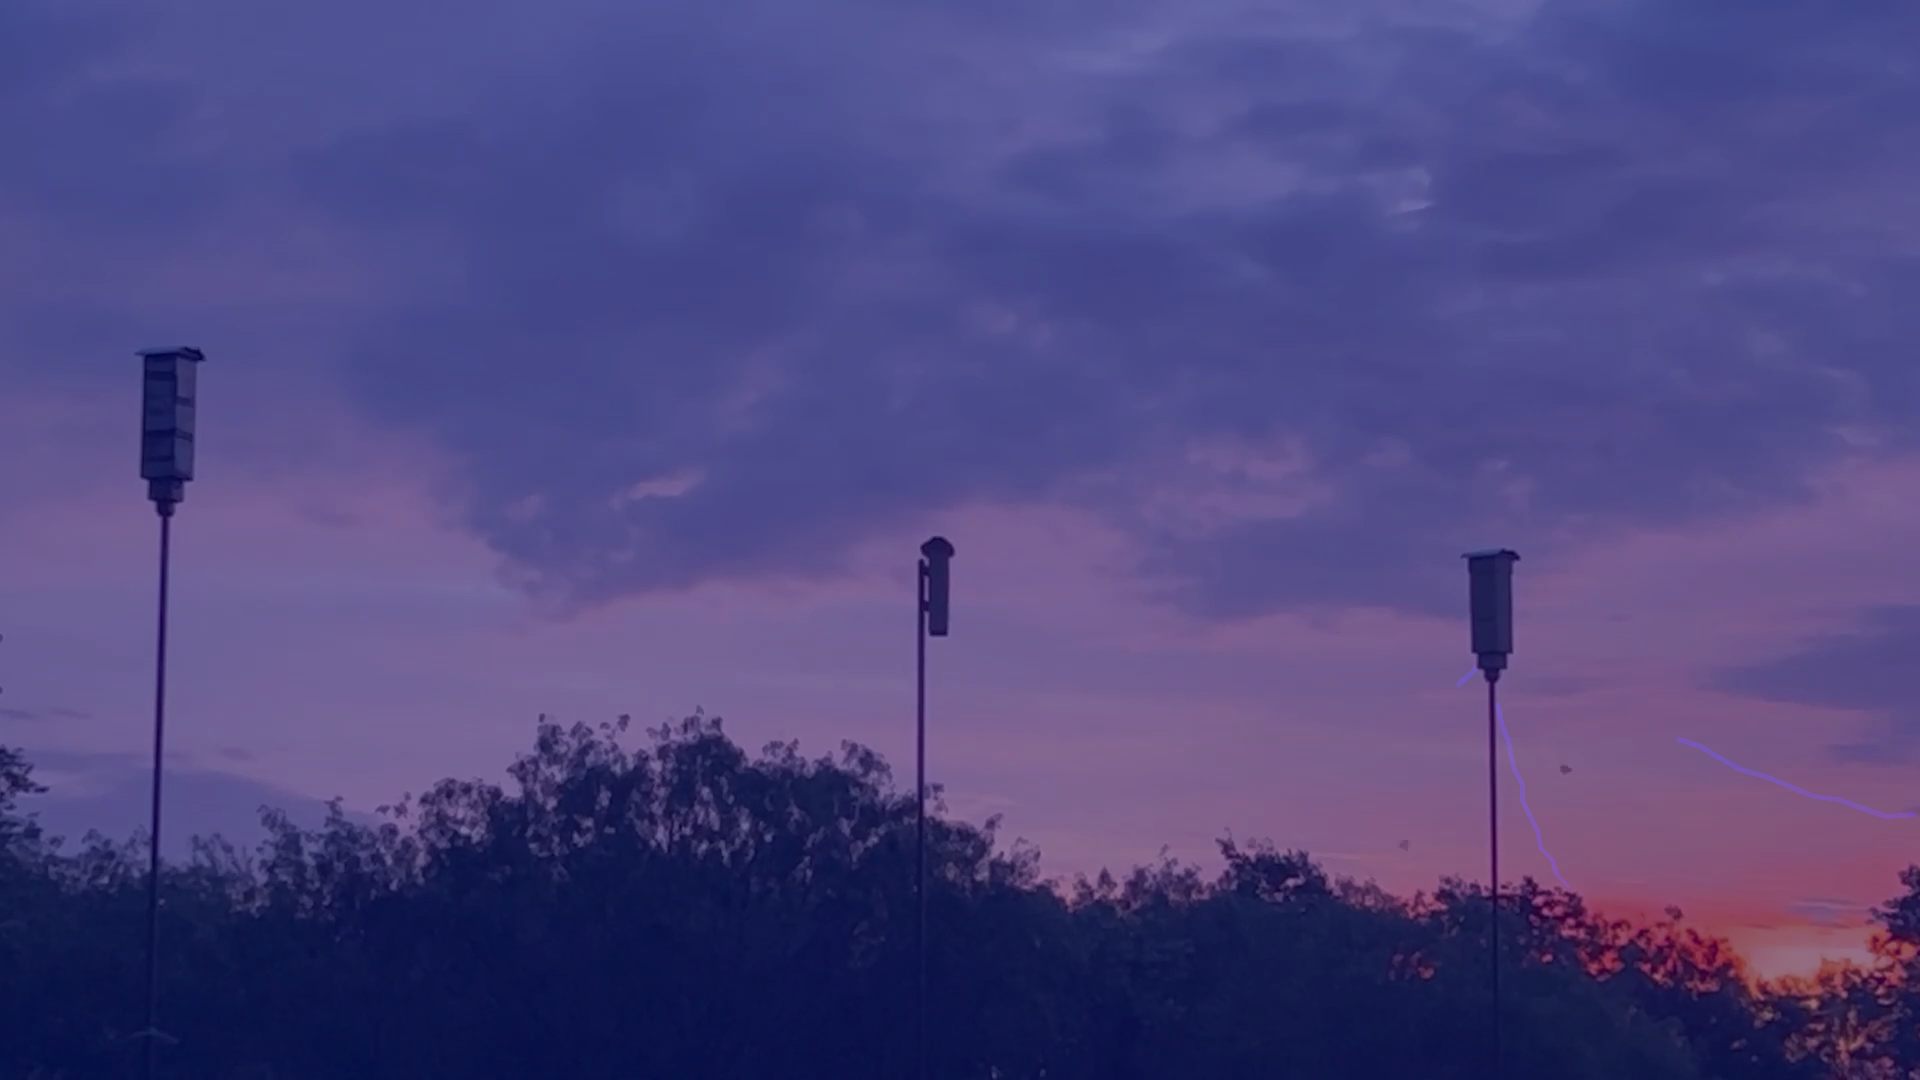
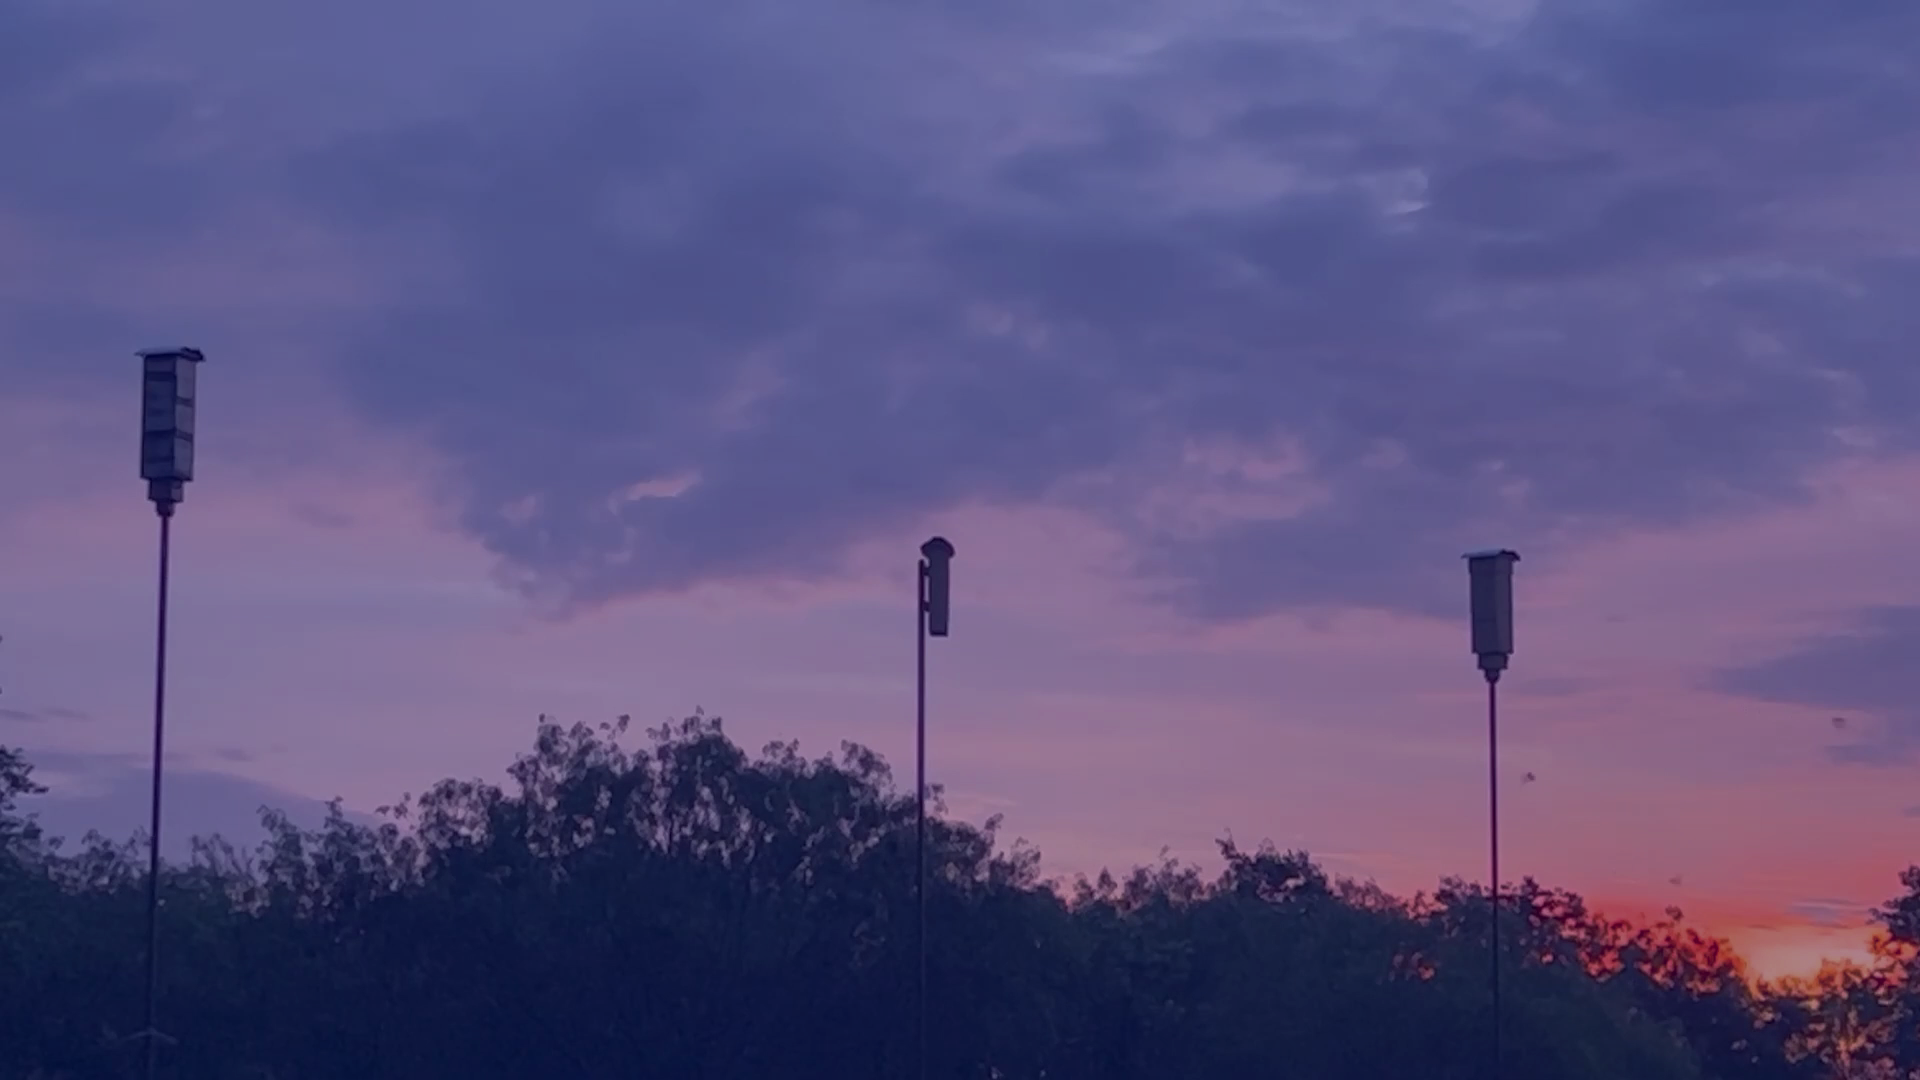
Heatmap

diff --git a/src/batometer/objectTracker.py b/src/batometer/objectTracker.py
@@ -29,7 +29,8 @@ class ObjectTracker:
         self.height = height
         self.all_objects: set[IdentifiedObject] = set()
         self.current_potential_objects: set[IdentifiedObject] = set()
-        self.pixel_heatmap = np.zeros((self.height, self.width, 3), dtype=np.uint16)
+        self.pixel_heatmap = np.zeros((self.height, self.width), dtype=np.float32)
+        self.max_missed_frames = 10
         # Keep the count of the IDs
         # each time a new object id detected, the count will increase by one
         self.id_count: int = 0
@@ -46,26 +47,10 @@ class ObjectTracker:
         Returns:
             set[IdentifiedObject]: Set of objects with assigned unique IDs for the current frame.
         """
-        MAX_MISSED_FRAMES = 10
-        for obj in list(self.current_potential_objects):  # Iterate over a copy of the set
-            if obj.missed_tracks > MAX_MISSED_FRAMES:
+        for obj in list(self.current_potential_objects):
+            self.update_heatmap(obj)
+            if obj.missed_tracks > self.max_missed_frames:
                 self.current_potential_objects.remove(obj)
-                left_p = 0
-                tracks_frame = np.zeros_like(self.pixel_heatmap, dtype=np.uint8)
-                while left_p < len(obj.history) - 1:
-                    pt1 = obj.history[left_p]
-                    # Move the second pointer to the next non-None point
-                    right_p = left_p + 1
-                    while right_p < len(obj.history) and obj.history[right_p] is None:
-                        right_p += 1
-
-                    if right_p < len(obj.history):
-                        pt2 = obj.history[right_p]
-                        if pt1 is not None and pt2 is not None:
-                            cv2.line(tracks_frame, (pt1.x, pt1.y), (pt2.x, pt2.y), color=(1,), thickness=3)
-                    # Move the first pointer to the second pointer's position
-                    left_p = right_p
-                self.pixel_heatmap += tracks_frame
         current_objects: set[IdentifiedObject] = set()
         for obj in self.current_potential_objects:
             matched = False
@@ -86,6 +71,24 @@ class ObjectTracker:
             self.id_count += 1
 
         return current_objects.copy(), self.current_potential_objects.difference(current_objects)
+    
+    def update_heatmap(self, obj: IdentifiedObject):
+        left_p = 0
+        tracks_frame = np.zeros_like(self.pixel_heatmap, dtype=np.uint8)
+        while left_p < len(obj.history) - 1:
+            pt1 = obj.history[left_p]
+            # Move the second pointer to the next non-None point
+            right_p = left_p + 1
+            while right_p < len(obj.history) and obj.history[right_p] is None:
+                right_p += 1
+
+            if right_p < len(obj.history):
+                pt2 = obj.history[right_p]
+                if pt1 is not None and pt2 is not None:
+                    cv2.line(tracks_frame, (pt1.x, pt1.y), (pt2.x, pt2.y), color=(1,), thickness=2)
+            # Move the first pointer to the second pointer's position
+            left_p = right_p
+        self.pixel_heatmap += tracks_frame
 
     def create_overlay(self, frame):
         long_tracks = set(obj for obj in self.current_potential_objects.union(self.all_objects))
@@ -117,16 +120,15 @@ class ObjectTracker:
         blue_background[:, :] = (255, 0, 0)  # Blue in BGR
         overlay = cv2.addWeighted(frame, 0.1, tracks_frame, 1.0, 0)
         overlay = cv2.addWeighted(overlay, 1.0, frame, 1.0, 0)
-        cv2.imshow("track", self.create_heatmap_overlay(frame))
         return overlay
 
     def create_heatmap_overlay(self, frame):
-        log_heatmap = np.log(self.pixel_heatmap + 1)
-        heatmap_img = np.zeros_like(log_heatmap, dtype=np.uint8)
-        cv2.normalize(log_heatmap, heatmap_img, 0, 255, cv2.NORM_MINMAX, dtype=cv2.CV_8U)
-        heatmap_img = cv2.applyColorMap(heatmap_img, cv2.COLORMAP_JET)
+        log_heatmap = self.pixel_heatmap
+        heatmap_prob = np.zeros_like(log_heatmap, dtype=np.uint8)
+        cv2.normalize(log_heatmap, heatmap_prob, 0, 255, cv2.NORM_MINMAX, dtype=cv2.CV_8U)
+        heatmap_img = cv2.applyColorMap(heatmap_prob, cv2.COLORMAP_JET)
         resized_heatmap_img = cv2.resize(heatmap_img, (self.width, self.height))
-        final_heatmap_img = cv2.addWeighted(frame, 0.6, resized_heatmap_img, 0.4, 0)
+        final_heatmap_img = cv2.addWeighted(frame, 0.7, resized_heatmap_img, 0.3, 0)
         return final_heatmap_img
 
     # Add a method to calculate bat likelihood based on movement patterns

diff --git a/src/batometer/batometerApp.py b/src/batometer/batometerApp.py
@@ -187,3 +187,4 @@ class BatometerApp:
         )
         
         cv2.destroyAllWindows()
+
